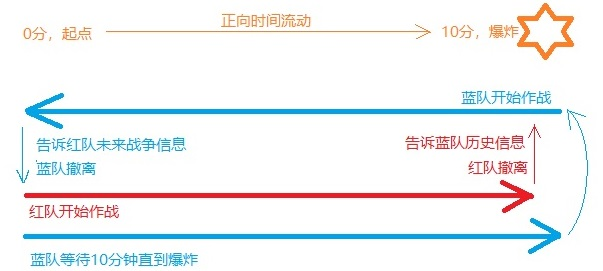
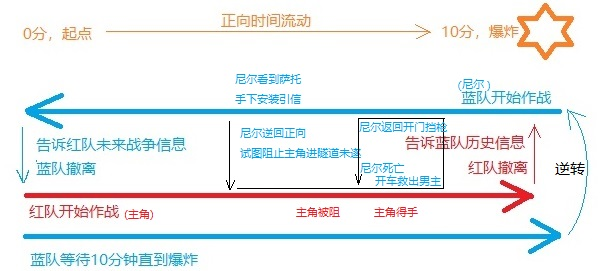
1

diff --git a/_posts/2020-09-10-movie-tenet.md b/_posts/2020-09-10-movie-tenet.md
@@ -250,6 +250,9 @@ $$ S = \int dQ/T $$
 
 - 主角逆转后，开车退回到前面的飙车现场，直到开到之前主角和萨托两辆车之间时，才意识到中间那辆从翻车状态起来的车正式自己开的这辆车。
 - 此时，逆转萨托发现了逆转的主角在中间开着的车，然后撞翻了主角的车，并点燃了汽油。但是由于逆转主角的热传导是逆向的，车子温度反而越来越低，救了主角一命。
+- 之后，困在车中爆炸低温的逆转主角，被逆转尼尔救出，二人随即带着受伤的凯特前往过去的机场。
+- 前面我们已经直到，逆转凯特需要保持逆转大约一周才能伤势痊愈，然后需要再次借助旋转门回到正向，但是一周前审问室的旋转门在反派萨托的控制中，肯定不能通过这里的旋转门回去，那么三人只能选择前往一周前的机场，因为正好一周前主角和尼尔在那里进行了一次飞机撞大楼的骚操作，机场那里的旋转门防守薄弱。
+- 也就是在那里，主角和逆转主角搏斗了一波。
 
 如果还没太看明白，没关系，下面上第二张图，以**反派萨托的视角**来审视整个过程。
 
@@ -328,7 +331,6 @@ $$ S = \int dQ/T $$
 
 整个追车抢夺战，萨托的目标就是得到主角先前抢得的钚241（演算机部件），并借助上述整个过程，在逆转后得到了逆转后的演算机部件。
 
-
 ## 4.2. 最终决战
 
 这是电影《信条》中两个最难懂的**时间钳形作战**之一：【最终决战】环节的解析。
@@ -341,39 +343,42 @@ $$ S = \int dQ/T $$
 
 我们假设爆炸发生在10分钟时刻，爆炸前10分钟也就是0时刻。电影的这个片段，正是0时刻之后，红队着陆进入战场开始打仗，以及蓝队已经完成战斗逆向撤离的过程。什么？没搞懂为什么蓝队已经撤退了？因为蓝队是从未来逆转回来的，他们的时间流动时反向的，他们从爆炸发生时开始战斗，一直战斗到爆炸发生前10分钟。
 
-时间钳形战术其实很好理解，我们以空间上的钳形战术为例，即从目标所在坐标位置的正反两个空间方向进行夹击。空间钳形战术的目的在于，让目标在空间上被锁死。
+以空间上的钳形战术为例，即从目标所在坐标位置的正反两个空间方向进行夹击。空间钳形战术的目的在于，让目标在空间上被锁死。
 
 而时间钳形战术这是针对固定时间段的战斗，从正反两个时间方向进行攻击。时间钳形战术的目的在于，让目标在这个时间段上呈现出的所有战术动作都被提前掌握。
 
-以影片中最后的分组突击为例。主角所在的红色军队以10分钟为跨度进行正向攻击，尼尔所在的蓝色军队以10分钟为跨度进行逆向攻击。也就是说，蓝色军队比红色军队晚出发10分钟，但红色军队朝着时间的正向移动，蓝色军队朝着时间的逆向移动。为什么要设置红蓝两个队伍，并且一正一逆呢？有以下几个方面的解释和考虑：
-
-1. 红蓝两队大张旗鼓的作战并不是为了阻止爆炸，而是**声东击西，让男主角和大胡子队长进入洞穴，把萨托手下要埋下去的演算机拿到手**。这里需要分析一下敌我双方的目的（此处参考来源[Nixes](https://www.bilibili.com/read/cv7548938/)）：
+以影片中最后的分组突击为例。主角所在的红色军队以10分钟为跨度进行正向攻击，尼尔所在的蓝色军队以10分钟为跨度进行逆向攻击。也就是说，蓝色军队比红色军队晚出发10分钟，但红色军队朝着时间的正向移动，蓝色军队朝着时间的逆向移动。在最终决战中，**各方的目的如下**：
 
    - 逆转萨托：阻止主角拿到演算机，在手下放下演算机引爆炸弹的同一时间服毒，毁灭世界；
+     - 逆转萨托死亡会导致：1、引爆炸弹，掩埋演算机；2、给未来人发邮件，告知自己死亡的时间，即演算机何时埋在这里，待未来人挖出使用毁灭世界；
    - 男主角：男主要假装阻止爆炸失败，但是趁机抢夺算法；
    - 女主角：要在男主抢到演算机后，爆炸发生前，在越南杀死逆转萨托；
-   - 那么就又引出下面几个问题：
-     - **为什么萨托要到这个地方、这个时间点放下演算机**？因为爆炸是为了封存这个演算机，类似之前的时间胶囊。萨托死后触发炸弹10s后爆炸，同时会发送一封邮件告诉未来人，自己的死亡时间，告诉演算机何时埋在这里，在未来可以取出并使用，从而毁灭世界。【注意，这里给出的是最终符合逻辑的解答，详细分析过程已经超纲了，请参考[Nixes](https://www.bilibili.com/read/cv7548938/)，简要列些如下】
-     - > 结合之前提到的时间胶囊，可以推断出来这个地方就是为了放时间胶囊。【爆炸只是为了更好地封存时间胶囊】。而电影在作战会议的时候只提到了＂萨托的离世会发送出一封邮件＂。那么这个邮件就有两种可能。一，直接启动算法；二，告诉未来人他埋下算法的时间点。结合最后女主的留言让主角成功鲨掉了印度女，还有上文提到的时间胶囊，我偏向于这只是告诉未来人时间的邮件。因为如果邮件就可以直接启动算法，那么萨托完全可以把算法放到任何地方，就算要花一段时间才能毁灭世界，那主角也不可能去阻止的。所以可以肯定【算法的启动需要未来人的帮助】。那未来人又怎么才能帮到他呢？也只能逆时回到开战前，然后在地下放一个激活装置。或者在未来拿出来改装完又逆时送回去，然后改装好的算法收到萨托的邮件才能启动。但是这样就有bug了，激活装置也好，逆时送回来也罢，如果是这些操作的话，女主完全没有必要留萨托一命。如果是放激活装置到地底，先不说为什么不提早几年把装置送给萨托，只要萨托一挂，那么个装置就一定在地底了，之后什么时候扔算法进去都一样。如果是要先让未来人改装好的，那在送给他们改装前先干掉萨托不是更好？（就算改装好了也不能激活）再结合上文提到的＂更好封存时间胶囊＂，我推测【算法是单向给未来人的】。综上所述可以得出结论，【算法＂毁灭世界＂的时间点不在当下，而在未来】
-     - **为什么主角不能让萨托在自己抢到演算机之前挂掉**？因为萨托挂了，就会引爆炸弹，同时给未来人发送一封邮件。而如果主角还没抢到演算机，那么演算机就依然会被埋在地底。
-    - 
+     - 这样，萨托死亡后爆炸发生，但演算机已经被抢走，不再被掩埋，未来人无法在未来挖到，毁灭世界失败。
+
+下面进行详细的解释：
+
+- 红蓝两队大张旗鼓的作战并不是为了阻止爆炸，而是声东击西，让男主角和大胡子队长进入洞穴，把萨托手下要埋下去的演算机拿到手。这里参考来源[Nixes](https://www.bilibili.com/read/cv7548938/)：
 
 
-2. 红蓝两队可以借助时间钳形作战互相共享未来的战斗信息，知己知彼。
+  - **为什么萨托要到这个地方、这个时间点放下演算机**？因为爆炸是为了封存这个演算机，类似之前的时间胶囊。萨托死后触发炸弹10s后爆炸，同时会发送一封邮件告诉未来人，自己的死亡时间，告诉演算机何时埋在这里，在未来可以取出并使用，从而毁灭世界。【注意，这里给出的是最终符合逻辑的解答，详细分析过程已经超纲了，请参考[Nixes](https://www.bilibili.com/read/cv7548938/)，简要列写如下】
+  
+    > 结合之前提到的时间胶囊，可以推断出来这个地方就是为了放时间胶囊。【爆炸只是为了更好地封存时间胶囊】。而电影在作战会议的时候只提到了＂萨托的离世会发送出一封邮件＂。那么这个邮件就有两种可能。一，直接启动算法；二，告诉未来人他埋下算法的时间点。结合最后女主的留言让主角成功鲨掉了印度女，还有上文提到的时间胶囊，我偏向于这只是告诉未来人时间的邮件。因为如果邮件就可以直接启动算法，那么萨托完全可以把算法放到任何地方，就算要花一段时间才能毁灭世界，那主角也不可能去阻止的。所以可以肯定【算法的启动需要未来人的帮助】。那未来人又怎么才能帮到他呢？也只能逆时回到开战前，然后在地下放一个激活装置。或者在未来拿出来改装完又逆时送回去，然后改装好的算法收到萨托的邮件才能启动。但是这样就有bug了，激活装置也好，逆时送回来也罢，如果是这些操作的话，女主完全没有必要留萨托一命。如果是放激活装置到地底，先不说为什么不提早几年把装置送给萨托，只要萨托一挂，那么个装置就一定在地底了，之后什么时候扔算法进去都一样。如果是要先让未来人改装好的，那在送给他们改装前先干掉萨托不是更好？（就算改装好了也不能激活）再结合上文提到的＂更好封存时间胶囊＂，我推测【算法是单向给未来人的】。综上所述可以得出结论，【算法＂毁灭世界＂的时间点不在当下，而在未来】
+
+  - **为什么主角不能让萨托在自己抢到演算机之前挂掉**？因为萨托挂了，就会引爆炸弹，同时给未来人发送一封邮件。而如果主角还没抢到演算机，那么演算机就依然会被埋在地底。
+
+- 红蓝两队可以借助时间钳形作战，互相共享未来的战斗信息，知己知彼。
 
    - 电影中，红色军队出发前，指挥官在讲战术时特别提到，当前的作战方案是战友同志们浴血换来来的宝贵经验。
-   - 主角所在的红色军队以10分钟为跨度进行正向攻击，尼尔所在的蓝色军队以10分钟为跨度进行逆向攻击。也就是说，
-   - 蓝色军队比红色军队晚出发10分钟，但红色军队朝着时间的正向移动，蓝色军队朝着时间的逆向移动。
-   - 当蓝色军队逆行10分钟，且目睹了整场战斗过程时，他们就可以将信息情报告知正在10分钟前点整装待发的红色军队。
-   - 反之，让红色军队从正向前进10分钟后，他们同样可以将自己看到的情报告知正在10分钟后整装待发的蓝色军队。
+   - 主角所在的红色军队以10分钟为跨度进行正向攻击，尼尔所在的蓝色军队以10分钟为跨度进行逆向攻击。也就是说，蓝色军队比红色军队晚出发10分钟，但红色军队朝着时间的正向移动，蓝色军队朝着时间的逆向移动。
+   - 当蓝色军队逆行10分钟，且目睹了整场战斗过程时，他们就可以将信息情报告知正在10分钟前点整装待发的红色军队。反之，让红色军队从正向前进10分钟后，他们同样可以将自己看到的情报告知正在10分钟后整装待发的蓝色军队。
 
-这里需要再补充一张图片辅助理解
+这里需要再补充一张图片辅助理解。需要注意的是，敌方也存在红蓝一正一逆两部分战队，需要从两个方向进行作战。即蓝色逆转战队面对逆转的地方队伍，红色正向战队面对敌方正常队伍。
 
 ![11.3](\assets\img\postsimg\20200910\11.3.jpg)
+ 
+最后，上一张最完整的示意图，展示整个电影的脉络。
 
-3. 敌方也存在红蓝一正一逆两部分战队，需要从两个方向进行作战。
-
-【未完待续】
+![13.1](\assets\img\postsimg\20200910\13.1.jpg)
 
 # 5. 其它
 
